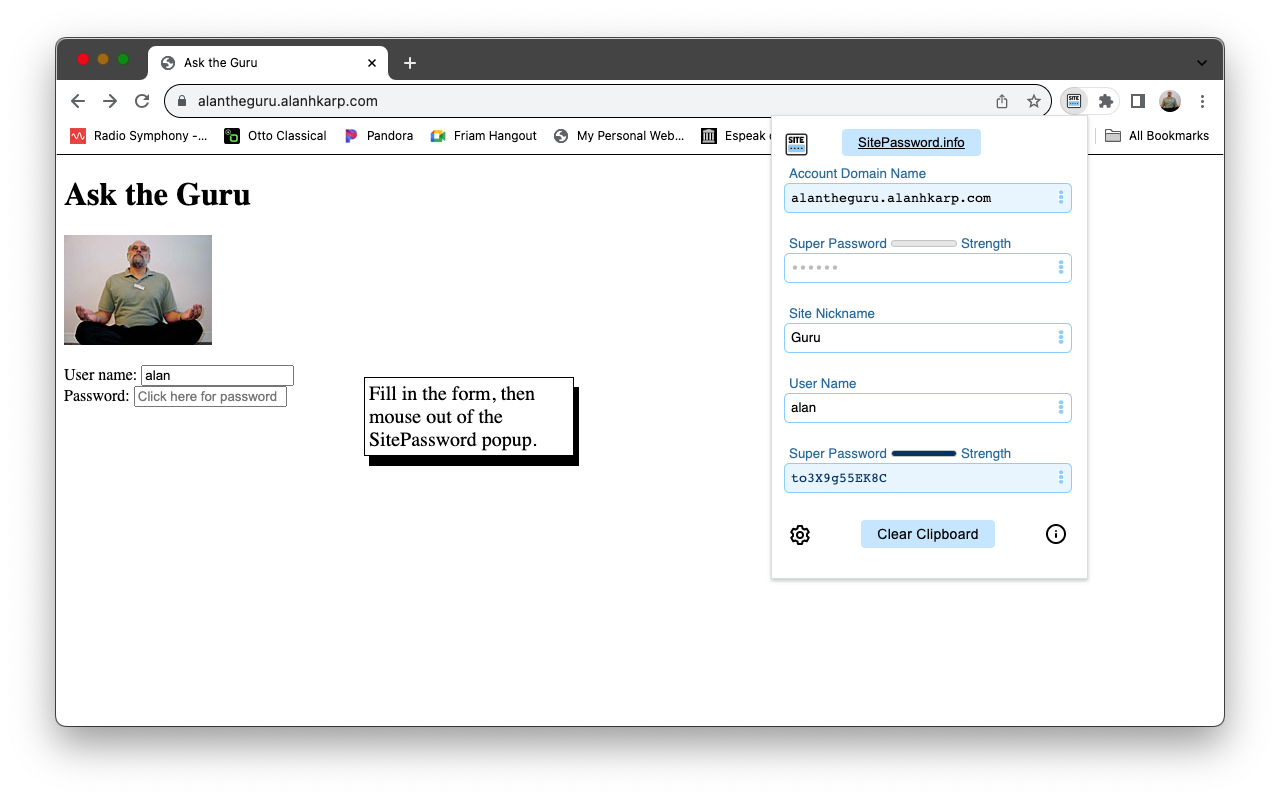
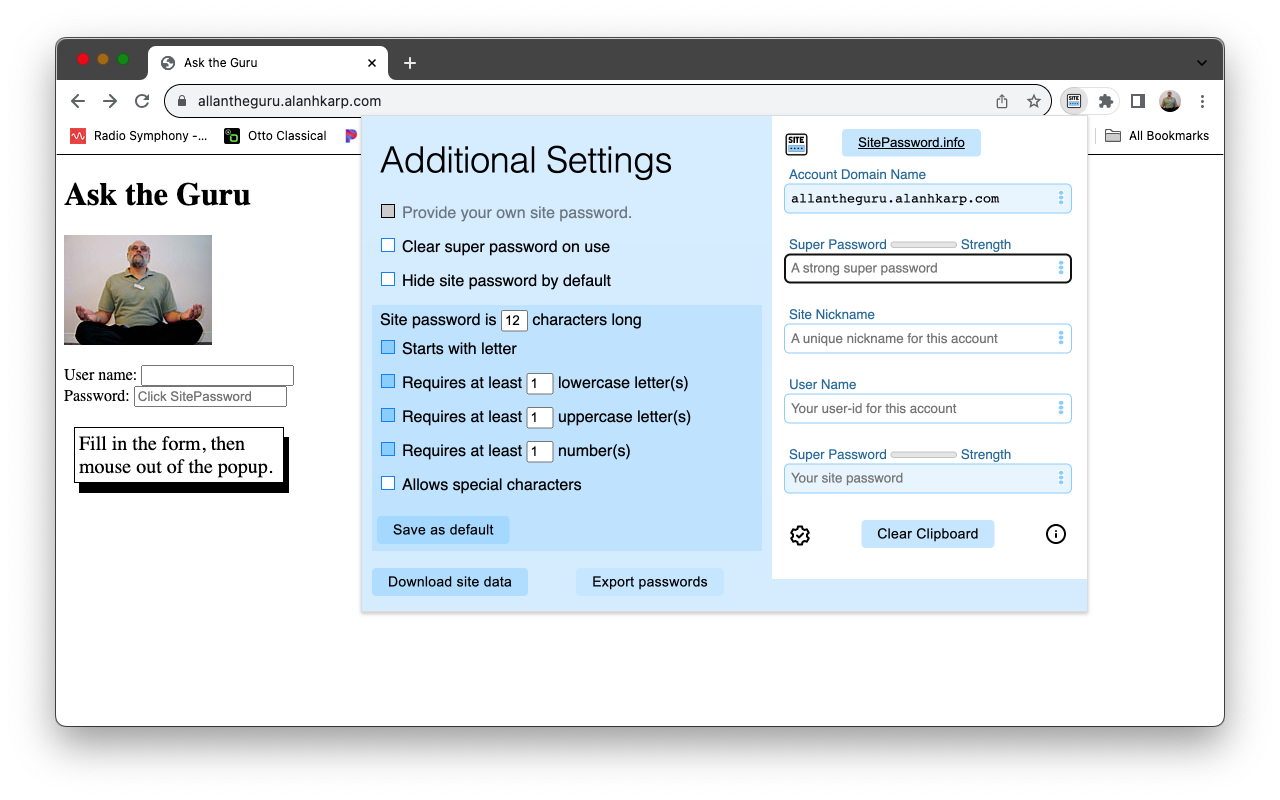
Several updates
The main changes update README.md to match the instructions in ssp.html.

The new images for the store have labels that describe what they show.  I put them there by manually editing the web page using the developer tools.  The file gurunotated.html has what I added for one of these labels.

I fixed some outdated wording in the instructions for the instructions for your site password, and updated a figure.

diff --git a/gurunotated.html b/gurunotated.html
@@ -1,0 +1,27 @@
+<!DOCTYPE HTML PUBLIC "-//IETF//DTD HTML//EN">
+<html><head>
+    <title>Ask the Guru</title>
+</head>
+<body>
+   <h1>Ask the Guru</h1>
+   <p>
+        <img src="alan_zen.jpg" width="148" height="110" alt="Alan H. Karp" border="0">
+   </p>
+      <label>User name: </label>
+      <input id="username" type="text" value=""><br>
+      <label>Password: </label>
+      <input id="password" type="password" value="" placeholder="Click SitePassword" aria-placeholder="Click SitePassword" title="Click on the SitePassword icon">
+
+<p style="font-size: 20px; padding: 4px; border: 1px solid;box-shadow: 5px 10px;position: relative;width: 200px;left: 300px;top: -50px;">
+    When you first visit a page with a login form,
+    you are told to Click SitePassword.
+</p>
+</body></html>
+
+UCAN is an object with a Revoke method, which can have a return value of succuss/failure.
+
+You typically delegate the revoke permission of the delegated UCAN, not the one it's delegated from.
+
+Revocation as a permission goes back to the caretaker pattern of the 1970s.
+
+I don't understand how ucan:* works.  Who keeps track of new delegations?  Would it be simpler to give the delegatee a capability to the delegator's power box? 

diff --git a/src/ssp.html b/src/ssp.html
@@ -412,11 +412,9 @@
               </p>
               <p>
                 SitePassword could generate a weak site password just by chance.
-                To let you know that has happened, it uses the same colors that
-                appear in the super password
-                strength meter to tell you how strong your site password is.
-                For example, if your site password is orange, then it is weak. In
-                that case, just choose a different nickname for the account.
+                To let you know that has happened, it uses the same strength
+                meter that appears above your super password
+                to tell you how strong your site password is.
               </p>
               <p>
                 When the generated password can't be used, say if you've been given one that

diff --git a/README.md b/README.md
@@ -81,7 +81,8 @@ SitePassword cannot retrieve your super password. You should make
 sure it's something you won't easily forget. You might even want
 to write it down and keep the copy in a secure place.
 
-[Your Site Nickname][#sitename]
+[Your Site Nickname](#sitename)
+---------------------------------------
 
 Your nickname is the way you refer to this account. It should be easy to remember,
 such as 'amazon' for amazon.com, but it doesn't have to be that simple.
@@ -93,12 +94,39 @@ site password contains special characters are associated with this nickname.
 [Changing a Site Password](#changing-a-site-password)
 tells you how to do that.
 
-[Your Site Passwords](#sitepw)
+[Your User Name](#username)
+---------------------------------------
+
+Your user name is the name you use to log in to the site. It is
+associated with the nickname for the account and is used to 
+calculate your site password.  That means you can only have a 
+single user name for a given nickname.  If you want to use different 
+user names for the same site, follow the instructions for 
+<span id="sharedref"><a href="#sharedinfo">Shared Machines</a></span>.   
+
+SitePassword will attempt to fill in the userid field of a login form. If you
+don't see it, one of a few things happened.
+
+- You never provided your settings for this domain name.</li>
+
+    - This is the first time you've used SitePassword for this account.</li>
+    - This is a different domain name for logging into the same account.</li>
+    - You are at a fake site that is trying to steal your password.</li>
+
+- SitePassword incorrectly guessed the location of the userid field.</li>
+- SitePassword couldn't find the userid field.</li>
+
+In the last two cases,
+you'll have to fill in your userid manually, which you can do by copying 
+it to the clipboard using the Copy menu icon in the userid field.
+
+
+[Your Site Password](#sitepw)
 --------------------------
 
 You only need to open SitePassword to enter your super password, to 
-set up a new site, or when SitePassword can't find the password field.  Most 
-of the time, you can just click on the login 
+set up a new site, or when SitePassword you need to paste your password.  
+Most of the time, you can just click on the login 
 form's password field.  You'll know which to do because the password field will 
 say either *Click SitePassword* or *Click here for password*.  If the 
 password field says neither, just click on the password field and see if
@@ -117,12 +145,97 @@ In that case, just choose a different nickname for the site.
 When SitePassword can't generate a password acceptable to the site, it can remember a password 
 you provide.  This password is stored in your settings encrypted with the computed
 password for the site as a key.  That means you must fill in the form before entering 
-your password. After you fill in the form, click the <em>Provide your own site password</em> 
+your password. After you fill in the form, open the setttings and
+click the <em>Provide your own site password</em> 
 check box.  You can then enter your password into the site password field. 
 
 You can also get your passwords without the extension. Go to
 [SitePassword.info](https://sitepassword.info) or 
 [the page on Github](https://alanhkarp.github.io/SitePasswordWeb) and fill in the form.  
+
+[Input Field Menus (3 Blue Dots)](#menus)
+--------------------------
+
+Each of the input fields has a menu that shows up when you mouse over 
+(or tap on a touchscreen) the 3 dots in the right side of the field.  Each field has a particular set of menu items.  If an icon is grayed out, it is not available for that field.  For example, you can't show your super password if the field is empty.
+
+<img src="src/help.png" alt="help" style="width: 16px; height: 16px; vertical-align: middle;"/> &nbsp; 
+Every field has a help option, 
+which provides a brief summary of the information provided in these Instructions.
+
+<img src="src/forget.png" alt="forget" style="width: 16px; height: 16px; vertical-align: middle;"/> &nbsp;
+The domain name, sitename and username fields have a Forget option.  For example, if you click this icon in the site nickname 
+field, you will be given the opportunity to permanently forget the settings for all domain names associated 
+with that site nickname.
+
+<svg class="icon menu-icon" xmlns="http://www.w3.org/2000/svg" fill="none" style="top: 7px" width="24" height="24">
+    <path stroke="currentColor" stroke-linecap="round" stroke-linejoin="round" stroke-width="2"
+    d="M8 5H6a2 2 0 0 0-2 2v12a2 2 0 0 0 2 2h12a2 2 0 0 0 2-2V7a2 2 0 0 0-2-2h-2M8 5v0a2 2 0 0 1 2-2h4a2 2 0 0 1 2 2v0M8 5v0a2 2 0 0 0 2 2h4a2 2 0 0 0 2-2v0" />
+</svg> The username and site password fields have a Copy option, which copies the contents of the field to the clipboard.
+
+<svg class="icon menu-icon" viewBox="0 0 24 24" xmlns="http://www.w3.org/2000/svg" fill="none" style="top: 7px" width="24" height="24">
+    <path stroke="currentColor" stroke-linecap="round" stroke-linejoin="round" stroke-width="2"
+    d="M7 6.362A9.707 9.707 0 0 1 12 5c6.307 0 9.367 5.683 9.91 6.808.06.123.06.261 0 .385-.352.728-1.756 3.362-4.41 5.131M14 18.8a9.93 9.93 0 0 1-2 .2c-6.307 0-9.367-5.683-9.91-6.808a.44.44 0 0 1 0-.386c.219-.452.84-1.632 1.91-2.885m6 .843A3 3 0 0 1 14.236 14M3 3l18 18" />
+</svg>
+<svg class="icon menu-icon" viewBox="0 0 24 24" xmlns="http://www.w3.org/2000/svg" fill="none" style="top: 7px" width="24" height="24">
+    <path stroke="currentColor" stroke-linecap="round" stroke-linejoin="round" stroke-width="2"
+    d="M12 5c-6.307 0-9.367 5.683-9.91 6.808a.435.435 0 0 0 0 .384C2.632 13.317 5.692 19 12 19s9.367-5.683 9.91-6.808a.435.435 0 0 0 0-.384C21.368 10.683 18.308 5 12 5z" />
+    <circle cx="12" cy="12" r="3" stroke="currentColor" stroke-linecap="round" stroke-linejoin="round"
+    stroke-width="2" />
+</svg> The super and site password fields give you the option of showing or hiding the contents of the field.
+By default, your super password is hidden, and your site password is not.  You can change the default behavior of 
+the site password field by clicking the <em>Hide site password by default</em> option in the settings panel.
+
+[Additional Settings](#settings)
+--------------------------
+
+The settings panel has a number of options divided
+into two sections.  The first section is about your super and site passwords.
+The second section controls how SitePassword computes your site password.
+Click on the 
+<svg class="menu-icon" width="16px" height="16px" viewBox="0 0 24 24" xmlns="http://www.w3.org/2000/svg"
+    fill="none">
+    <path stroke="currentColor" stroke-linecap="round" stroke-linejoin="round" stroke-width="2"
+    d="M14 21h-4l-.551-2.48a6.991 6.991 0 0 1-1.819-1.05l-2.424.763-2-3.464 1.872-1.718a7.055 7.055 0 0 1 0-2.1L3.206 9.232l2-3.464 2.424.763A6.992 6.992 0 0 1 9.45 5.48L10 3h4l.551 2.48a6.992 6.992 0 0 1 1.819 1.05l2.424-.763 2 3.464-1.872 1.718a7.05 7.05 0 0 1 0 2.1l1.872 1.718-2 3.464-2.424-.763a6.99 6.99 0 0 1-1.819 1.052L14 21z" />
+    <circle cx="12" cy="12" r="3" stroke="currentColor" stroke-width="2" />
+</svg> icon to open the settings panel and the <svg class="menu-icon" width="16px" height="16px" viewBox="0 0 24 24" xmlns="http://www.w3.org/2000/svg"
+    fill="none">
+    <path stroke="currentColor" stroke-linecap="round" stroke-linejoin="round" stroke-width="2"
+    d="M14 21h-4l-.551-2.48a6.991 6.991 0 0 1-1.819-1.05l-2.424.763-2-3.464 1.872-1.718a7.055 7.055 0 0 1 0-2.1L3.206 9.232l2-3.464 2.424.763A6.992 6.992 0 0 1 9.45 5.48L10 3h4l.551 2.48a6.994 6.994 0 0 1 1.819 1.05l2.424-.763 2 3.464-1.872 1.718a7.05 7.05 0 0 1 0 2.1l1.872 1.718-2 3.464-2.424-.763a6.992 6.992 0 0 1-1.819 1.052L14 21z" />
+    <path stroke="currentColor" stroke-linecap="round" stroke-linejoin="round" stroke-width="2"
+    d="m9 12 2 2 4-4" />
+</svg>
+icon to close it.  
+
+The top section of the settings panel has three settings related to your super and site passwords.  
+
+Unlike most password managers that calculate your password, SitePassword gives you
+the option to provide your own.  This is useful if you have a password that you
+can't change, such as one provided by your employer.  You can also use this option
+if SitePassword can't compute a password acceptable by the site. 
+
+The password you 
+provide is encrypted with the computed site password as a key.  That means you must 
+fill in the form before entering your password.  After you fill in the form, open the
+settings and check the <em>Provide your own site password</em> check box.
+You'll then be able to enter your password into the site password field.
+
+You normally leave your super password in the form, but you might not want to do 
+that on a shared machine.  Check the <em>Clear super password on use</em> to clear 
+your super password every time you use the calculated site password.  You'll have to
+enter your super password every time you use SitePassword.
+
+Your site password is not hidden by default for two reasons.  One is that it helps 
+see how different the site password are for different inputs.  The second is that it's fun watching
+the site password change as you type in the form.  Check the <em>Hide site password
+by default</em> to hide it.
+
+The next section controls how SitePassword computes your site password and is 
+explained in <span id="acceptableref"><a href="#acceptableinfo">Computing an Acceptable Password</a></span>.
+
+The <em>Download site data</em> button is explained in 
+<span id="downloadref"><a href="#downloadinfo">Downloading Your Settings</a></span>, and the
+<em>Export passwords</em> button, in <span id="exportref"><a href="#exportinfo">Exporting Your Passwords</a></span>.
 
 [Computing an Acceptable Password](#acceptable)
 --------------------------
@@ -135,6 +248,16 @@ accept the calculated password, click the gear icon,
 and change the appropriate menu entries. SitePassword
 was tested on hundreds of web sites to make sure it can always
 compute a valid password.
+
+The defaults 
+were chosen because SitePassword can calculate a password that is acceptable to most
+sites with them.  You can change these settings if you run into a site that doesn't accept the
+calculated password. 
+
+Although these settings produce valid passwords for most sites, you might feel more comfortable generating
+stronger site passwords by making them longer or by including special characters.  Click
+<em>Save as default</em> to make these settings the default for all new accounts.
+
 
 [Changing a Site Password](#change)
 --------------------------
@@ -211,15 +334,6 @@ get your settings for the site.
 
 See the instructions on the [sitepassword.info](https://sitepassword.info) web page for more information.
 
-[Downloading Your Settings](#download)
---------------------------
-
-There is a <em>Download Site Data</em> button at the bottom of
-the popup window after you click the gear icon.
-Clicking this button lets you save your settings in a file you
-can reference if you need to look them up.  All settings created on machines that 
-synch your bookmarks are included.
-
 [Shared Machines](#shared)
 --------------------------
 
@@ -231,6 +345,28 @@ other sites, such as social media.
 SitePassword accomodates those uses with a feature provided by your browser called *profiles*. 
 Since each profile gets its own bookmarks, create one profile for the shared account and 
 one for each individual user.
+
+[Downloading Your Settings](#download)
+--------------------------
+
+There is a <em>Download Site Data</em> button at the bottom of
+the popup window after you click the gear icon.
+Clicking this button lets you save your settings in a file you
+can reference if you need to look them up.  All settings created on machines that 
+synch your bookmarks are included.
+
+[Exporting Your Passwords](#export)
+--------------------------
+
+There may come a time when you want to use a different password manager.
+In that case you can use the <em>Export passwords</em> button at the bottom of
+the settings.
+Clicking this button creates a file with your passwords.  You can see a readable form 
+of the data in the file by opening it in a spreadsheet.
+ 
+<b>Be very careful with this file.</b>  Completely delete it from your machine, including
+emptying the trash, after you use it.  If you don't, anyone who gets access to your machine
+can get your passwords.
 
 [Source Code](#source)
 ----------------------
@@ -245,8 +381,14 @@ project. (For historical reasons, these are separate projects with a lot of dupl
 
 If you like SitePassword, please make a contribution to the [Nancy Lee Hurtt '70 Maryland Promise Scholarship](https://giving.umd.edu/giving/fund.php?name=nancy-lee-hurtt-70-maryland-promise-scholarship) or your favorite charity.
 
-[Developers][#developers]
+[Developers](#developers)
+-----------------------------
 
 The SitePassword extension can be installed for Firefox, Safari, and most Chromium browsers
 using the code here.  Simply rename the appropriate manifest file to manifest.json, and 
 install the extension using the mechanism provided by your browser.
+
+You may find a need to debug the extension.  The service worker, bg.js, and the content script, findpw.js, work normally, but the popup, ssp.js, won't stop at breakpoints hit early in its startup.  Setting the constant *debugMode* to true will make the poup stop at a *debugger* statement early in the load process.
+
+A number of tests are included with the distribution.  In keeping with the
+philosophy of avoiding dependencies, the tests don't use any frameworks.  To run the tests, edit bg.js and set the constant *testMode* to true.  Then reload the extension.  Go to a new page, and Inspect the popup.  You'll get an alert that tests are running to make it harder for you to forget to turn off testing.  Test results appear on the console.
